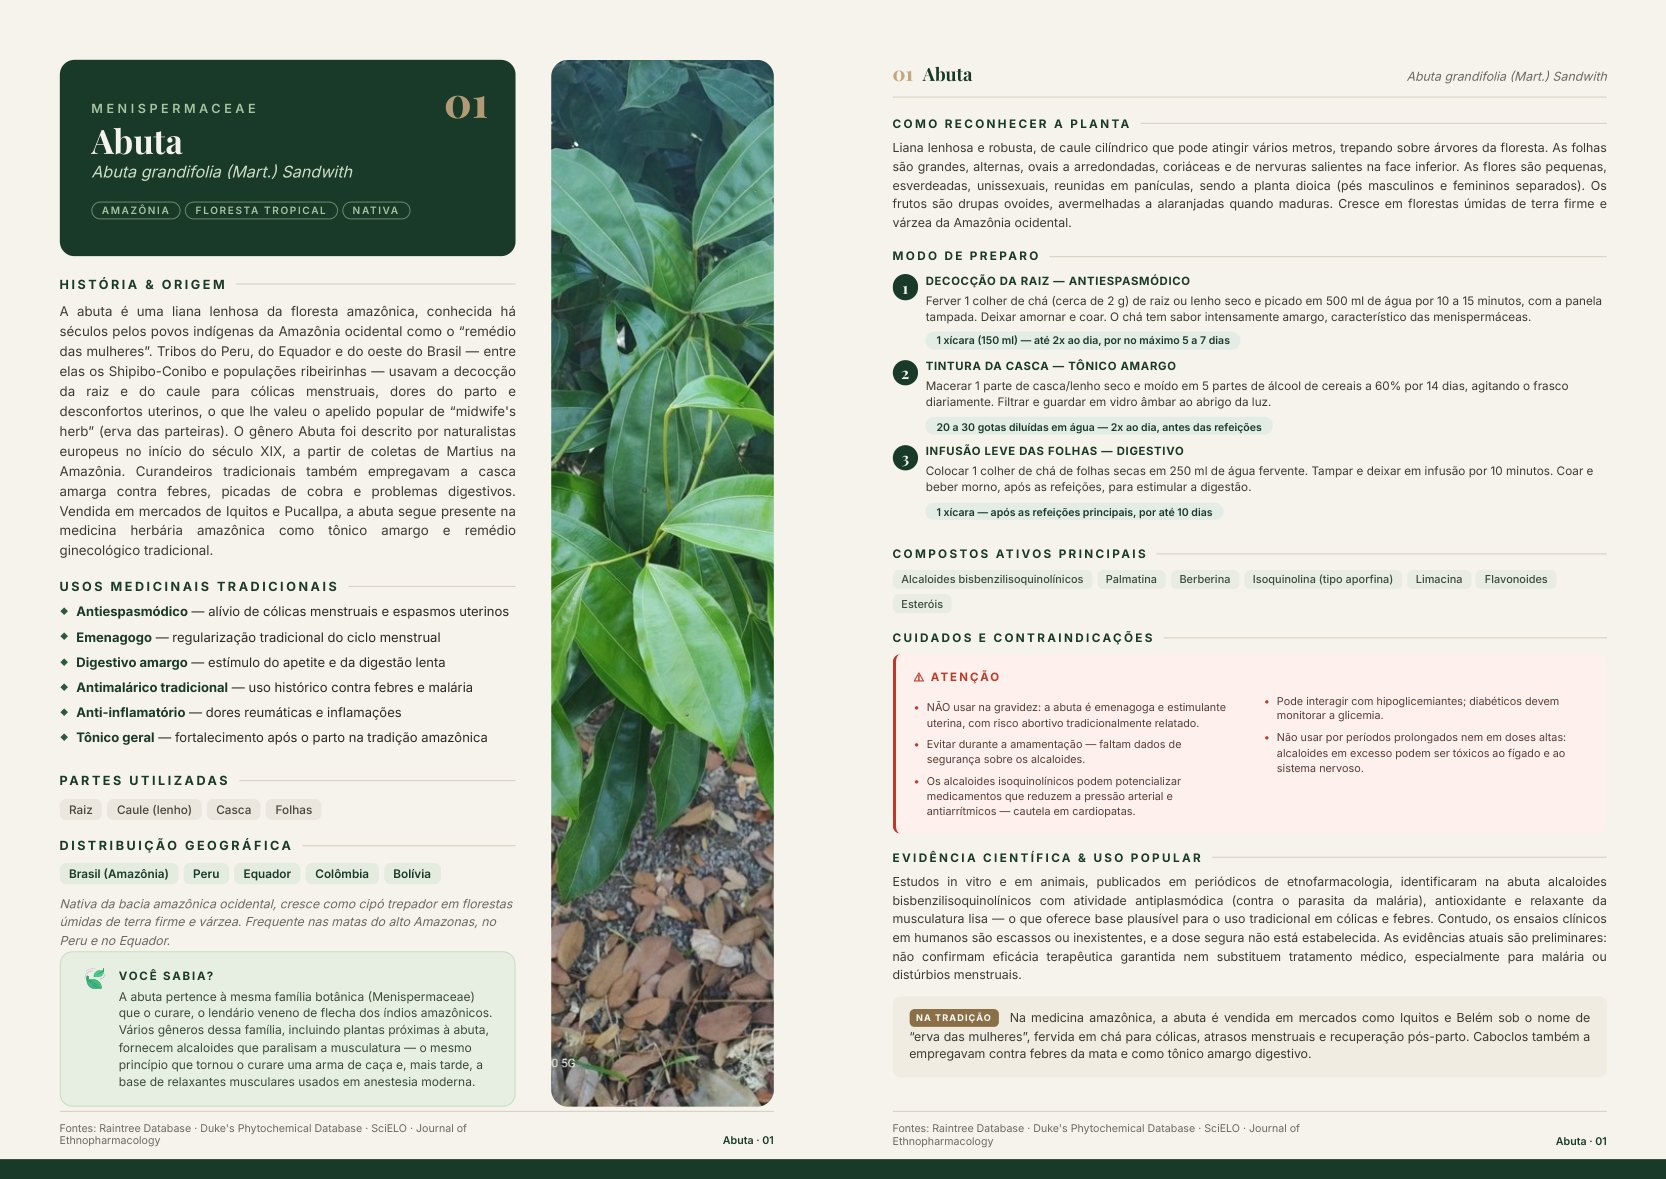
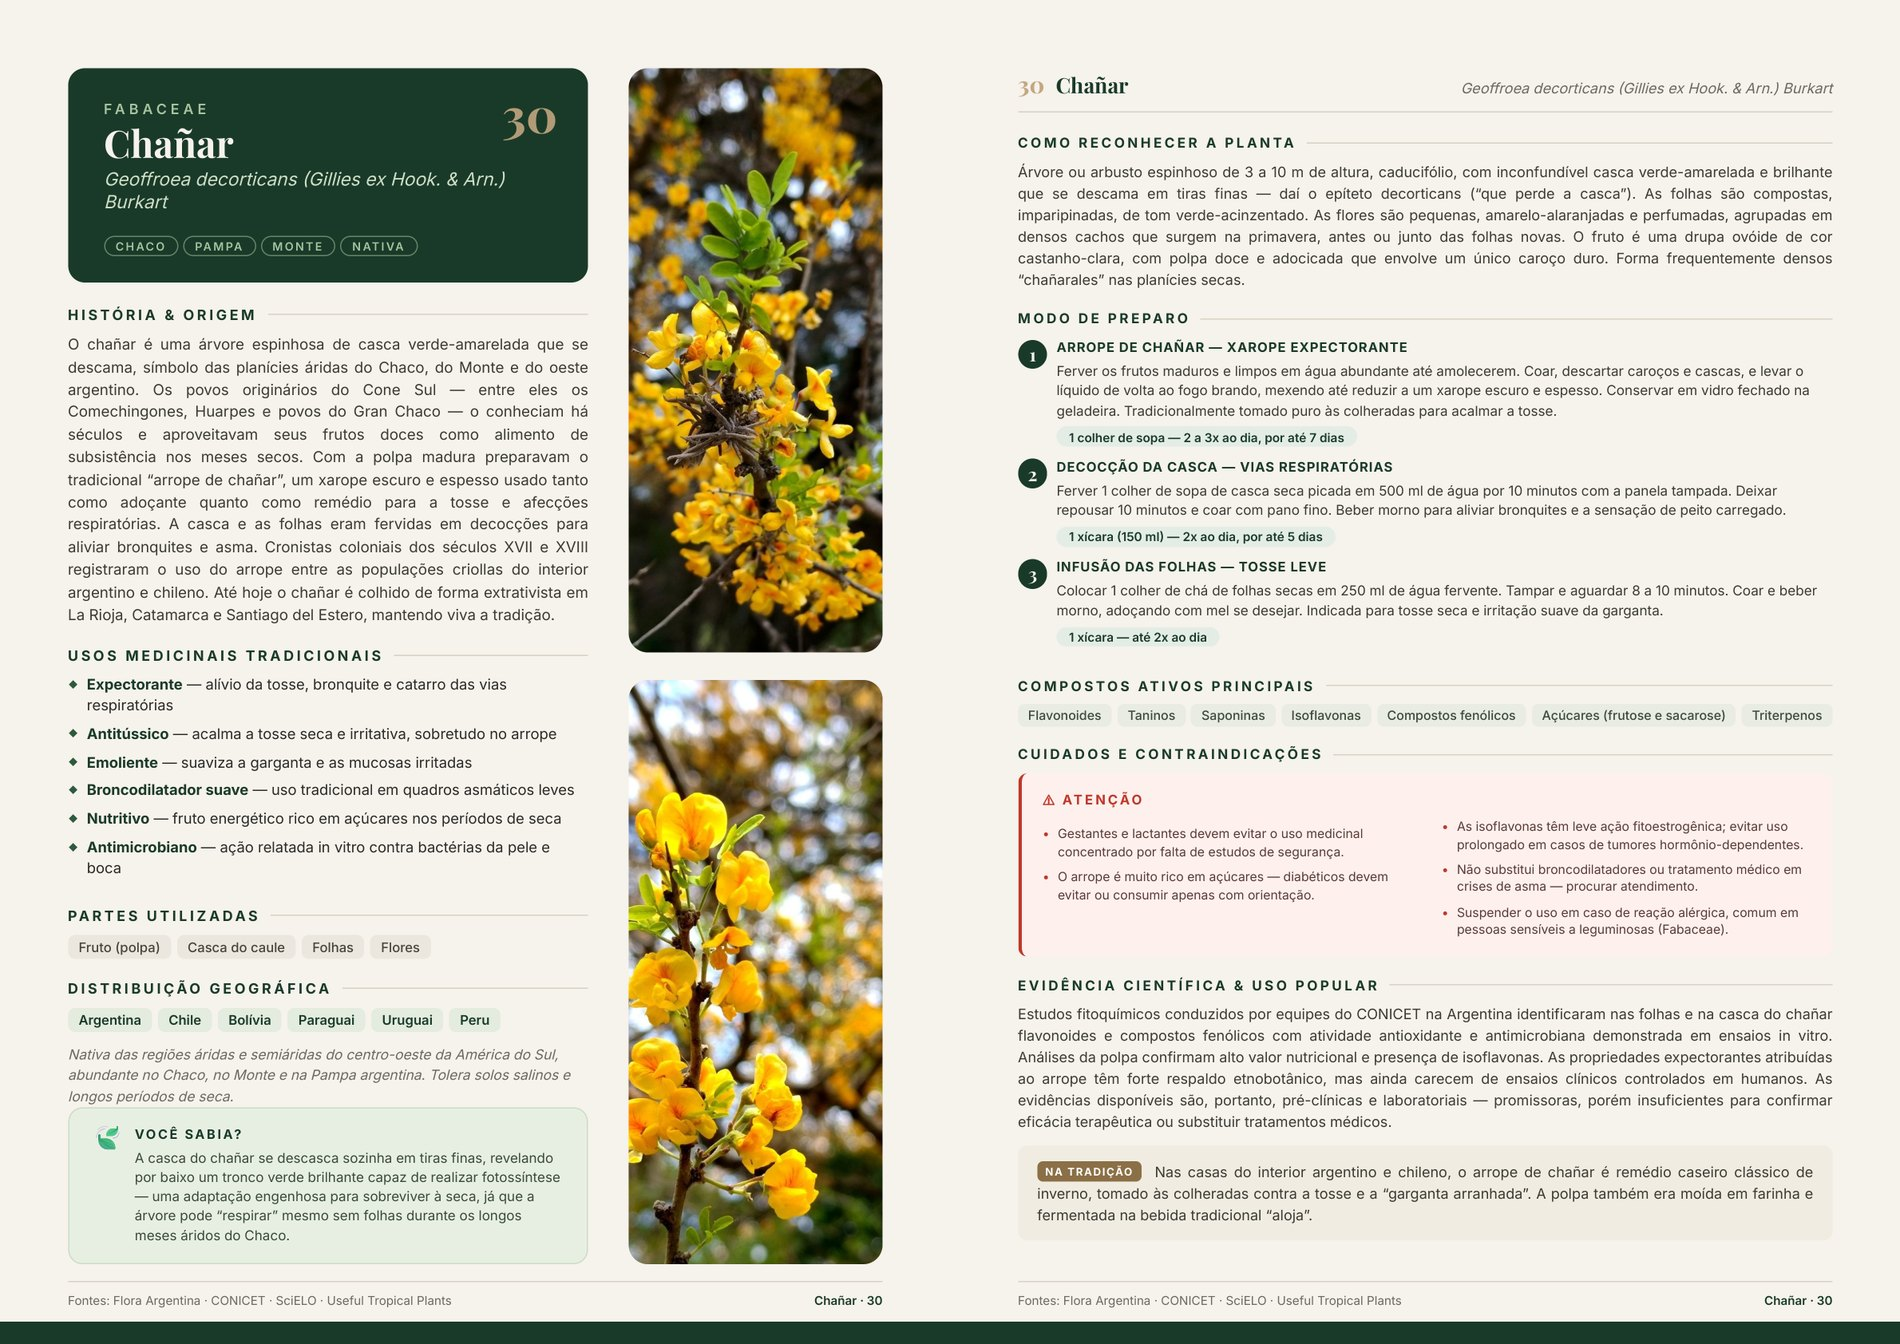
feat(livro): CTA mais forte, checkout Hotmart real (PT) e fotos da amostra (plantas 30 e 38)
- botão Comprar: gradiente vermelho, negrito, brilho e lift no hover
- checkout PT real: pay.hotmart.com/J106432769P (produto aprovado)
- spreads 'Por dentro' trocados pelas plantas 30 (amarela) e 38 (rosa)

diff --git a/src/app/[lang]/livros/[slug]/BookSales.tsx b/src/app/[lang]/livros/[slug]/BookSales.tsx
@@ -91,10 +91,10 @@ export default function BookSales({ slug }: { slug: string }) {
                   href={checkout}
                   target="_blank"
                   rel="noopener noreferrer"
-                  className="group inline-flex items-center rounded-full bg-muted-red px-7 py-3.5 text-sm font-semibold tracking-[0.02em] text-offwhite shadow-[0_14px_44px_rgba(164,90,90,0.32)] transition hover:bg-muted-red/88"
+                  className="group inline-flex items-center rounded-full bg-gradient-to-b from-[#cf6259] to-[#9e433d] px-8 py-4 text-[0.95rem] font-bold tracking-[0.01em] text-white shadow-[0_16px_44px_rgba(207,98,89,0.55)] ring-1 ring-white/15 transition hover:-translate-y-0.5 hover:shadow-[0_20px_56px_rgba(207,98,89,0.72)]"
                 >
                   {L.ctaBuy}
-                  <span className="ml-3 transition group-hover:translate-x-0.5">
+                  <span className="ml-3 transition group-hover:translate-x-1">
                     {String.fromCharCode(8594)}
                   </span>
                 </a>
@@ -264,10 +264,10 @@ export default function BookSales({ slug }: { slug: string }) {
                 href={checkout}
                 target="_blank"
                 rel="noopener noreferrer"
-                className="group inline-flex items-center rounded-full bg-muted-red px-8 py-4 text-sm font-semibold text-offwhite shadow-[0_14px_44px_rgba(164,90,90,0.32)] transition hover:bg-muted-red/88"
+                className="group inline-flex items-center rounded-full bg-gradient-to-b from-[#cf6259] to-[#9e433d] px-10 py-5 text-[1.05rem] font-bold text-white shadow-[0_18px_50px_rgba(207,98,89,0.6)] ring-1 ring-white/15 transition hover:-translate-y-0.5 hover:shadow-[0_24px_64px_rgba(207,98,89,0.78)]"
               >
                 {L.ctaBuy} · {L.price}
-                <span className="ml-3 transition group-hover:translate-x-0.5">
+                <span className="ml-3 transition group-hover:translate-x-1">
                   {String.fromCharCode(8594)}
                 </span>
               </a>
